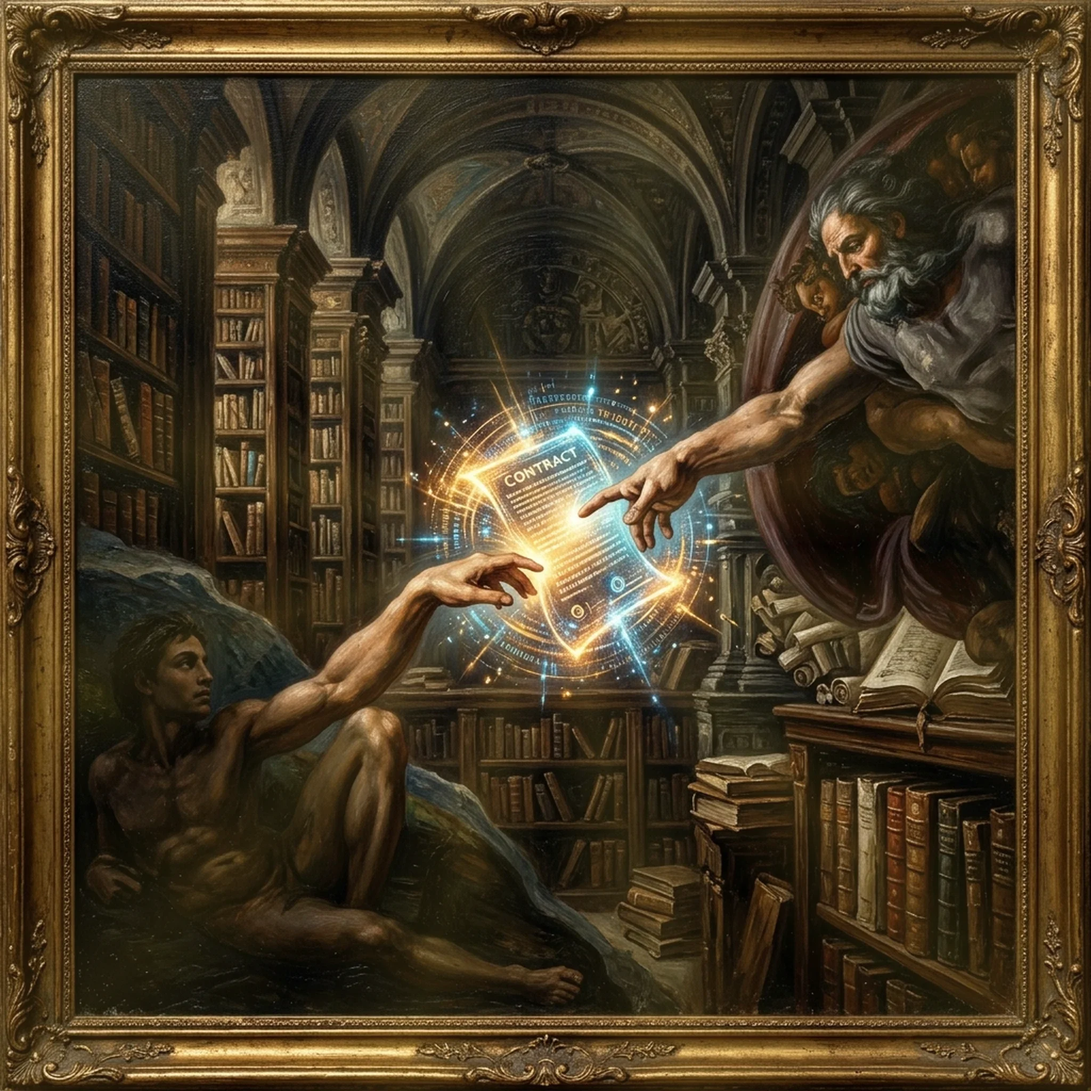
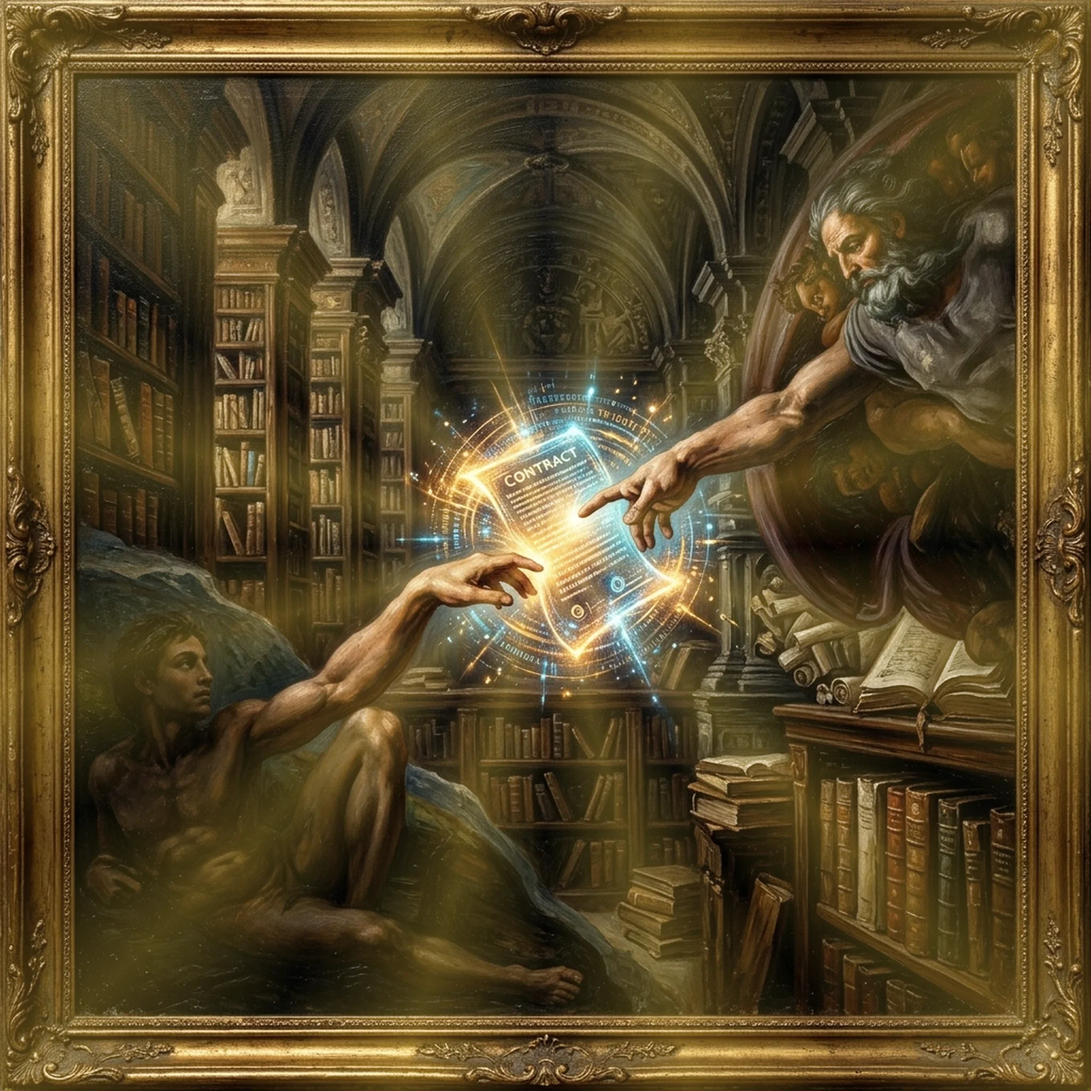
fix(android): footer landing hold + brighter baked rays
- Footer disappearing at bottom: the ink-drop reveal only reached full at the
  very last scroll pixel, so momentum/overscroll bounce on Android un-revealed it
  (flicker/vanish). Complete the footer reveal by timeline pos 14.5 and let GSAP
  hold it fully-revealed through 15, giving a stable ~40% landing zone. Timeline
  length stays 15 (testimonial bust tweens still end at 15), so scroll mapping is
  unchanged.
- Baked layanan rays were too faint (0.15) and read as plain on mobile; re-baked
  the gold ray glow at 0.35 so it's clearly visible while staying static/zero-cost.

diff --git a/main.js b/main.js
@@ -386,10 +386,14 @@ window.addEventListener('DOMContentLoaded', () => {
     masterTl.fromTo(".bust-center", { y: "15vh" }, { y: "10vh", ease: "none", duration: 2 }, 13);
     masterTl.fromTo(".bust-right", { y: "40vh" }, { y: "-15vh", ease: "none", duration: 2 }, 13);
 
-    // STAGE 14: Footer Ink Drop (14 to 15)
+    // STAGE 14: Footer Ink Drop (14 to 14.5), lalu HOLD fully-revealed sampai ujung (15).
+    // Footer sengaja selesai reveal lebih awal supaya ~40% scroll terakhir semuanya
+    // menampilkan footer penuh -> saat mentok bawah / momentum-bounce di Android, footer
+    // tidak ikut un-reveal (dulu flicker & "ilang" karena baru penuh persis di pixel akhir).
+    // Panjang timeline tetap 15 karena tween busts testimonial berakhir di 15.
     masterTl.set("#footer", { autoAlpha: 1 }, 14);
-    masterTl.fromTo("#footer", { maskSize: "0% 0%", webkitMaskSize: "0% 0%" }, { maskSize: "450% 450%", webkitMaskSize: "450% 450%", ease: "power2.inOut", duration: 1 }, 14);
-    masterTl.fromTo("#footer .footer-hand", { y: "15vh", scale: 0.9 }, { y: "-5vh", scale: 1, ease: "power1.out", duration: 1 }, 14);
+    masterTl.fromTo("#footer", { maskSize: "0% 0%", webkitMaskSize: "0% 0%" }, { maskSize: "450% 450%", webkitMaskSize: "450% 450%", ease: "power2.inOut", duration: 0.5 }, 14);
+    masterTl.fromTo("#footer .footer-hand", { y: "15vh", scale: 0.9 }, { y: "-5vh", scale: 1, ease: "power1.out", duration: 0.5 }, 14);
 
     ScrollTrigger.refresh();
   }
